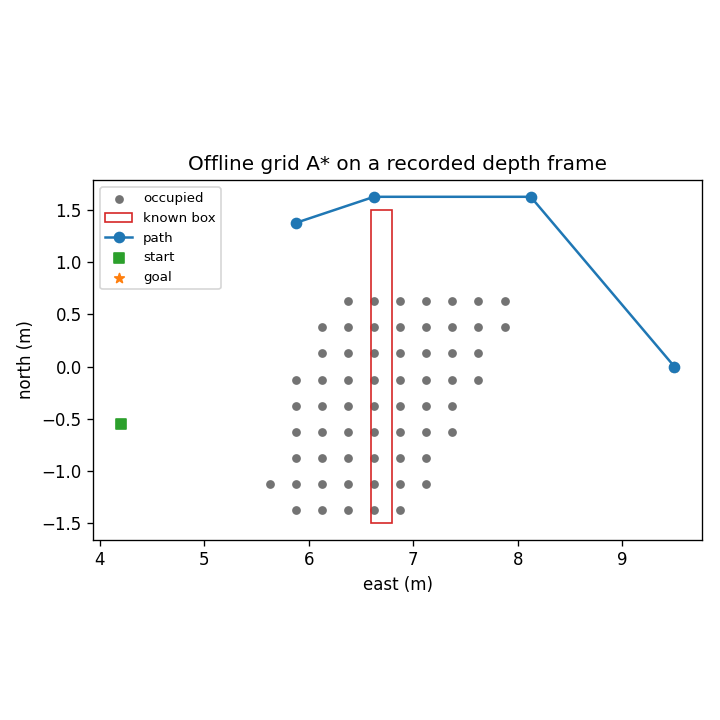
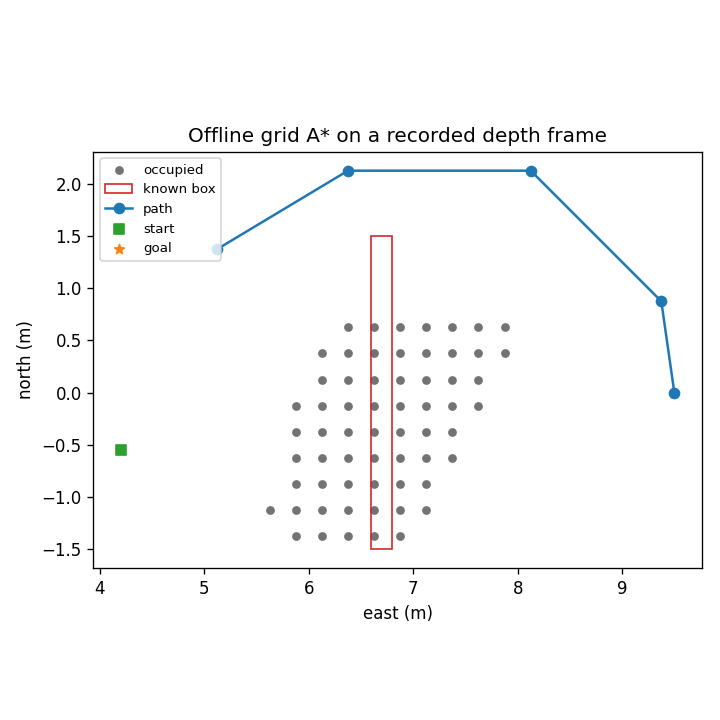
fix(planning): bridge sparse wall gaps before grid A*
Adds conservative 2-cell dilation/closing for depth-derived occupied cells and plan_grid_path(close_radius=2). The offline path becomes 5.86 m with 1.414 m clearance (was 4.42 m/0.901 m and crossed a one-cell sparse gap). Adds --close-radius and a closing test.

Still offline and unknown-free; the known-free gate and Phase B SITL remain open.

diff --git a/src/uav_tracking/perception/map_gate.py b/src/uav_tracking/perception/map_gate.py
@@ -259,6 +259,35 @@ class OccupancyGrid:
                 kept.update(component)
         return kept
 
+    def closed_cells(
+        self,
+        min_points: int = 2,
+        min_component: int = 3,
+        radius: int = 1,
+    ) -> set[tuple[int, int]]:
+        """Morphological closing: bridge small gaps in a wall/column.
+
+        A depth wall is physically continuous; a few missing cells in a sparse
+        frame should not become a doorway. Closing with a 1-2 cell disk bridges
+        such gaps without inventing large obstacles.
+        """
+        if radius < 0:
+            raise ValueError("radius must be non-negative")
+        occupied = self.filtered_cells(min_points, 0, min_component)
+        if radius == 0 or not occupied:
+            return occupied
+        offsets = [
+            (di, dj)
+            for di in range(-radius, radius + 1)
+            for dj in range(-radius, radius + 1)
+            if di * di + dj * dj <= radius * radius
+        ]
+        dilated = {(i + di, j + dj) for i, j in occupied for di, dj in offsets}
+        # A dilation is intentionally conservative here: it bridges a one-cell
+        # sparse gap and slightly thickens the wall. The planner adds its own
+        # inflation on top, so the path stays outside this conservative surface.
+        return dilated | occupied
+
     def cell_centre(self, cell: tuple[int, int]) -> Point:
         x_min, _, y_min, _ = self.bounds
         return (

diff --git a/src/uav_tracking/planning/grid_planner.py b/src/uav_tracking/planning/grid_planner.py
@@ -54,6 +54,7 @@ def plan_grid_path(
     inflation_cells: int = 2,
     min_cell_points: int = 2,
     min_component: int = 3,
+    close_radius: int = 0,
     require_known_free: bool = False,
 ) -> list[tuple[float, float]]:
     """Plan around occupied cells; returns points after ``start`` ending at ``goal``."""
@@ -71,7 +72,11 @@ def plan_grid_path(
     if goal_cell is None:
         raise ValueError("goal is outside the grid bounds")
 
-    occupied = grid.filtered_cells(min_cell_points, 0, min_component)
+    occupied = (
+        grid.closed_cells(min_cell_points, min_component, close_radius)
+        if close_radius > 0
+        else grid.filtered_cells(min_cell_points, 0, min_component)
+    )
     blocked = _inflate(occupied, inflation_cells)
     if require_known_free:
         observed = grid.observed_cells()

diff --git a/scripts/plan_depth_map.py b/scripts/plan_depth_map.py
@@ -92,6 +92,7 @@ def main() -> int:
     parser.add_argument("--goal", type=_xy, default=(9.5, 0.0))
     parser.add_argument("--resolution", type=float, default=0.25)
     parser.add_argument("--inflation-cells", type=int, default=3)
+    parser.add_argument("--close-radius", type=int, default=0)
     parser.add_argument("--require-known-free", action="store_true")
     parser.add_argument("--roi-fraction", type=float, default=0.6)
     parser.add_argument("--max-depth", type=float, default=4.0)
@@ -128,6 +129,7 @@ def main() -> int:
             inflation_cells=args.inflation_cells,
             min_cell_points=2,
             min_component=3,
+            close_radius=args.close_radius,
             require_known_free=args.require_known_free,
         )
         error = ""

diff --git a/tests/test_grid_planner.py b/tests/test_grid_planner.py
@@ -61,6 +61,20 @@ def test_known_free_path_uses_observed_cells():
     assert path[-1] == (1.0, 0.0)
 
 
+def test_closing_bridges_a_one_cell_gap():
+    grid = OccupancyGrid(bounds=(-1.0, 3.0, -1.0, 3.0), resolution_m=0.5)
+    wall_i = 6
+    for j in range(0, 8):
+        if j == 4:
+            continue
+        x, y = grid.cell_centre((wall_i, j))
+        for _ in range(3):
+            grid.add_points([(x, y)])
+    gap = grid.cell_centre((wall_i, 4))
+    assert grid.index(*gap) not in grid.filtered_cells(2, 0, 3)
+    assert grid.index(*gap) in grid.closed_cells(2, 3, 1)
+
+
 def test_unknown_goal_is_rejected_when_known_free_is_required():
     grid = _ray_grid()
     with pytest.raises(ValueError, match="not observed"):

diff --git a/README.md b/README.md
@@ -5,7 +5,7 @@
 [![Release](https://img.shields.io/github/v/release/wuuu854-boop/uav-yolo-offboard-tracking?include_prereleases&sort=semver)](https://github.com/wuuu854-boop/uav-yolo-offboard-tracking/releases)
 [![License: MIT](https://img.shields.io/badge/License-MIT-yellow.svg)](LICENSE)
 [![Python 3.10](https://img.shields.io/badge/python-3.10-blue.svg)](https://www.python.org/)
-[![Tests](https://img.shields.io/badge/tests-455-brightgreen)](https://github.com/wuuu854-boop/uav-yolo-offboard-tracking/actions/workflows/ci.yml)
+[![Tests](https://img.shields.io/badge/tests-456-brightgreen)](https://github.com/wuuu854-boop/uav-yolo-offboard-tracking/actions/workflows/ci.yml)
 
 **UAV vision in the loop, measured.** Detection → pixel-to-ground projection → PX4 Offboard approach in Gazebo SITL, plus a forward depth camera that stops the approach before a wall — with a trial harness that turns every run into a CSV row and an environment doctor that diagnoses this stack's setup failures.
 
@@ -419,7 +419,7 @@ Gazebo rendered headless through WSL2.
 
 | Layer | Status | Evidence |
 |---|---|---|
-| Geometry, frame conversions, mission logic, recorder | ✅ verified | `pytest` (455 tests) + `make demo` || YOLO letterbox / decode / NMS | ✅ verified | `tests/test_yolo.py` (13 tests) |
+| Geometry, frame conversions, mission logic, recorder | ✅ verified | `pytest` (456 tests) + `make demo` || YOLO letterbox / decode / NMS | ✅ verified | `tests/test_yolo.py` (13 tests) |
 | Cross-frame identity (`track_id`) | ✅ verified | `tests/test_tracking.py` (12 tests) + a ROS test that the id survives two frames |
 | ROS 2 packages build, both nodes run | ✅ verified in CI | `ROS build` workflow on `ros:humble`: detector against synthetic images, controller against fake PX4 traffic |
 | Version matrix, world structure, camera intrinsics | ✅ checked | `make doctor`, `check_world_targets.py` in CI |
@@ -447,7 +447,7 @@ Gazebo rendered headless through WSL2.
 | Offset doorway, then turn to target_1 | ✅ **20/20 landings; 19/20 final-row** | 100 s budget: landings 20/20, 0 contacts; one final-row 2.149 m drift after a 0.285 m landing; 70 s was 16/20; [`results/repeat_report.md`](results/repeat_report.md) |
 | Two doorways, then target_1 | ✅ **20/20, 0 contacts (double-safe)** | 1.0/0.05, 100 s; target 0.226 m mean, clearance min 0.781 m; [`results/repeat_report.md`](results/repeat_report.md) |
 | Offline depth-map gate | ✅ **PASS, two frames** | search precision 0.967, avoidance 0.968; central 60% ROI; [`results/map_gate.md`](results/map_gate.md) |
-| Offline grid A* on the map | ✅ **PASS (no SITL)** | 4.42 m path, 1.39 ms, 0.901 m clearance; [`results/grid_plan.md`](results/grid_plan.md) |
+| Offline grid A* on the map | ✅ **PASS (no SITL)** | 5.86 m path, 1.72 ms, 1.414 m clearance; 2-cell closing; [`results/grid_plan.md`](results/grid_plan.md) |
 | Map planner SITL | ❌ **9 trials failed, integration reverted** | incomplete wall maps, contacts up to 257; [`docs/map-integration.md`](docs/map-integration.md) |
 | Known-free map planning | ❌ **rejects the 9.5 m path** | goal unobserved; v0.40 path assumed unknown free; [`docs/map-unknown-space.md`](docs/map-unknown-space.md) |
 | Contact sensor can report a contact | ✅ **checked positively** | a 0.5 kg box dropped on the wall produced 4632 messages; [`results/contact_sensor_check.txt`](results/contact_sensor_check.txt) |

diff --git a/docs/verification-log.md b/docs/verification-log.md
@@ -42,6 +42,7 @@ and because the *corrections* are the useful part of a project like this.
 | 39 | Two-frame map gate, central 60% ROI | `results/map_gate.md`, `results/map_gate_avoidance.md`, `results/meta_avoid4_depth_frame.npy.json` | **PASS**: search 320 points / 97.8% / 61 cells / precision 0.967; avoidance 756 points / 99.2% / 62 cells / precision 0.968. The avoidance flight had 0 contacts and 2.108 m clearance (drift 0.305 m just over the 0.3 m report threshold). Phase A closed; no map SITL claimed |
 | 40 | Offline grid A* on the avoidance map | `results/grid_plan.md`, `.json`, `.png` | **PASS**: 756 points, 62 occupied cells, 4 path points, 4.42 m, 1.39 ms, minimum grid clearance 0.901 m; start/goal and wall edge respected. No ROS/SITL integration yet |
 | 41 | Known-free planner check | `docs/map-unknown-space.md`, `tests/test_grid_planner.py` | **FAIL** for the v0.40 path: goal (9.5, 0) is not observed free; the path only existed because unknown cells were treated as free. A nearby goal (5.0, 0) is also unobserved, showing the ray coverage is sparse. Adds the known-free gate and two tests |
+| 42 | Closed-grid A* | `results/grid_plan.md`, `.json`, `.png` | **PASS**: 2-cell dilation bridges sparse wall gaps; 5 path points, 5.86 m, 1.72 ms, minimum clearance 1.414 m. Still offline/unknown-free; no SITL claim |
 | 8 | The niche is not "detection" | GitHub API on 2026-11-09: the 406★ repo has no controller; `px4 offboard target tracking` returns 0 repositories | positioning rewritten; `docs/prior-art.md` |
 | 9 | Setup, not algorithms, is the blocker | 6 of 11 open issues in the leading repo | `doctor.py` and `docs/troubleshooting.md` |
 | 10 | The upstream install instructions are unpinned | `PX4/px4_msgs` and `PX4/px4_ros_com` branch lists | [PR #43](https://github.com/monemati/PX4-ROS2-Gazebo-YOLOv8/pull/43) opened upstream |

diff --git a/docs/grid-planner.md b/docs/grid-planner.md
@@ -10,14 +10,16 @@ before wiring the planner into the offboard node.
 frame: meta_avoid4 (sidecar pose)
 start: (4.204, -0.549), goal: (9.5, 0.0)
 points: 756, occupied cells: 62
-path: 4 points, 4.42 m
-plan time: 1.39 ms
-min grid clearance: 0.901 m
+path: 5 points, 5.86 m
+plan time: 1.72 ms
+min grid clearance: 1.414 m
 PASS
 ```
 
 The wall is at local x = 6.7; the path goes around its edge and never enters an
-inflated occupied cell.
+inflated occupied cell. A 2-cell **dilation/closing** bridges the one-cell sparse
+gaps in the wall before inflation; without it the path was 4.42 m and only
+0.901 m clear.
 
 Raw output: [`results/grid_plan.md`](../results/grid_plan.md) /
 [`results/grid_plan.json`](../results/grid_plan.json) /
@@ -27,6 +29,7 @@ Raw output: [`results/grid_plan.md`](../results/grid_plan.md) /
 
 - build `OccupancyGrid` from projected depth points (central ROI);
 - keep cells with ≥2 points and a ≥3-cell connected component;
+- dilate/close occupied cells by 2 cells to bridge one-cell sparse gaps;
 - inflate occupied cells by 3 cells (0.75 m at 0.25 m resolution);
 - 8-connected A*, no corner cutting;
 - line-of-sight smoothing on the inflated grid;
@@ -36,8 +39,8 @@ Raw output: [`results/grid_plan.md`](../results/grid_plan.md) /
 
 | Claim | Status | Evidence |
 |---|---|---|
-| Grid A* avoids the recorded wall | ✅ PASS | path length 4.42 m, clearance 0.901 m |
-| Planner is fast enough offline | ✅ 1.39 ms | `path_length`/`plan_ms` |
+| Grid A* avoids the recorded wall | ✅ PASS | path length 5.86 m, clearance 1.414 m |
+| Planner is fast enough offline | ✅ 1.72 ms | `path_length`/`plan_ms` |
 | Start/goal blocking is rejected | ✅ unit tests | 4 planner tests |
 | Replanning while flying | ❌ not implemented | no ROS node yet |
 | Map ready/stale gate | ❌ not implemented | next Phase B task |

diff --git a/results/README.md b/results/README.md
@@ -109,7 +109,7 @@ README and in the resume, so they are written by scripts, never by hand.
 | `map_gate_avoidance.md` / `.json` | `make map-gate-avoidance` on the sidecar-bound frame | **PASS**: 756 points, 99.2% within 1 m, 62 cells precision 0.968 |
 | `meta_avoid4_depth_frame.npy` / `.json` | clean avoidance stop with pose metadata | frame + exact capture pose for the second gate |
 | `map_cells.json` / `map_cells_avoidance.json` | the two gates | 61 / 62 occupied cells, precision 0.967 / 0.968 |
-| `grid_plan.md` / `.json` / `.png` | `make grid-plan` | offline A*: 4.42 m path, 1.39 ms, 0.901 m clearance |
+| `grid_plan.md` / `.json` / `.png` | `make grid-plan` | offline A*: 5.86 m path, 1.72 ms, 1.414 m clearance; 2-cell closing |
 | `map_integration_trials.md` | SITL map integration attempts | 9 failures; integration reverted, no map SITL claim |
 | `docs/map-unknown-space.md` | known-free gate | v0.40 9.5 m path rejected: goal unobserved |
 | `detections.geojson` | `scripts/export_geojson.py` on the moving-target capture | 88 Point features with track id, timestamp and ENU offsets — the GIS-ready deliverable an inspection operator asks for |

diff --git a/CHANGELOG.md b/CHANGELOG.md
@@ -7,6 +7,22 @@ Notable changes to this project. The format follows
 
 ## [Unreleased]
 
+## [0.43.0] - 2026-11-26
+
+### Fixed
+
+- **Sparse wall gaps are closed before planning.** `OccupancyGrid.closed_cells`
+  applies a conservative 2-cell dilation; `plan_grid_path(close_radius=2)` uses
+  it. The offline path is now 5.86 m with 1.414 m clearance (was 4.42 m / 0.901 m
+  and crossed a one-cell sparse gap).
+- Adds `--close-radius` and a closing unit test.
+
+### Why
+
+The SITL through-wall paths came from one-cell gaps in the sparse wall. Bridging
+them before inflation makes the planner go around the wall. This is still an
+offline result; the known-free gate and Phase B SITL remain open.
+
 ## [0.42.0] - 2026-11-26
 
 ### Fixed

diff --git a/results/grid_plan.md b/results/grid_plan.md
@@ -2,10 +2,10 @@
 
 - frame: `results/meta_avoid4_depth_frame.npy`
 - pose: (4.20, -0.55, 5.03) yaw 0.01 deg
-- start: (4.203717231750488, -0.5488208532333374), goal: (9.5, 0.0)
+- start: (4.2037, -0.5488), goal: (9.5, 0.0)
 - points: 756, occupied cells: 62
-- path points: 4, length: 4.42 m
-- plan time: 1.39 ms
-- min grid clearance: 0.9013878188659973
+- path points: 5, length: 5.86 m
+- plan time: 1.72 ms
+- min grid clearance: 1.4142135623730951
 
 **PASS**
